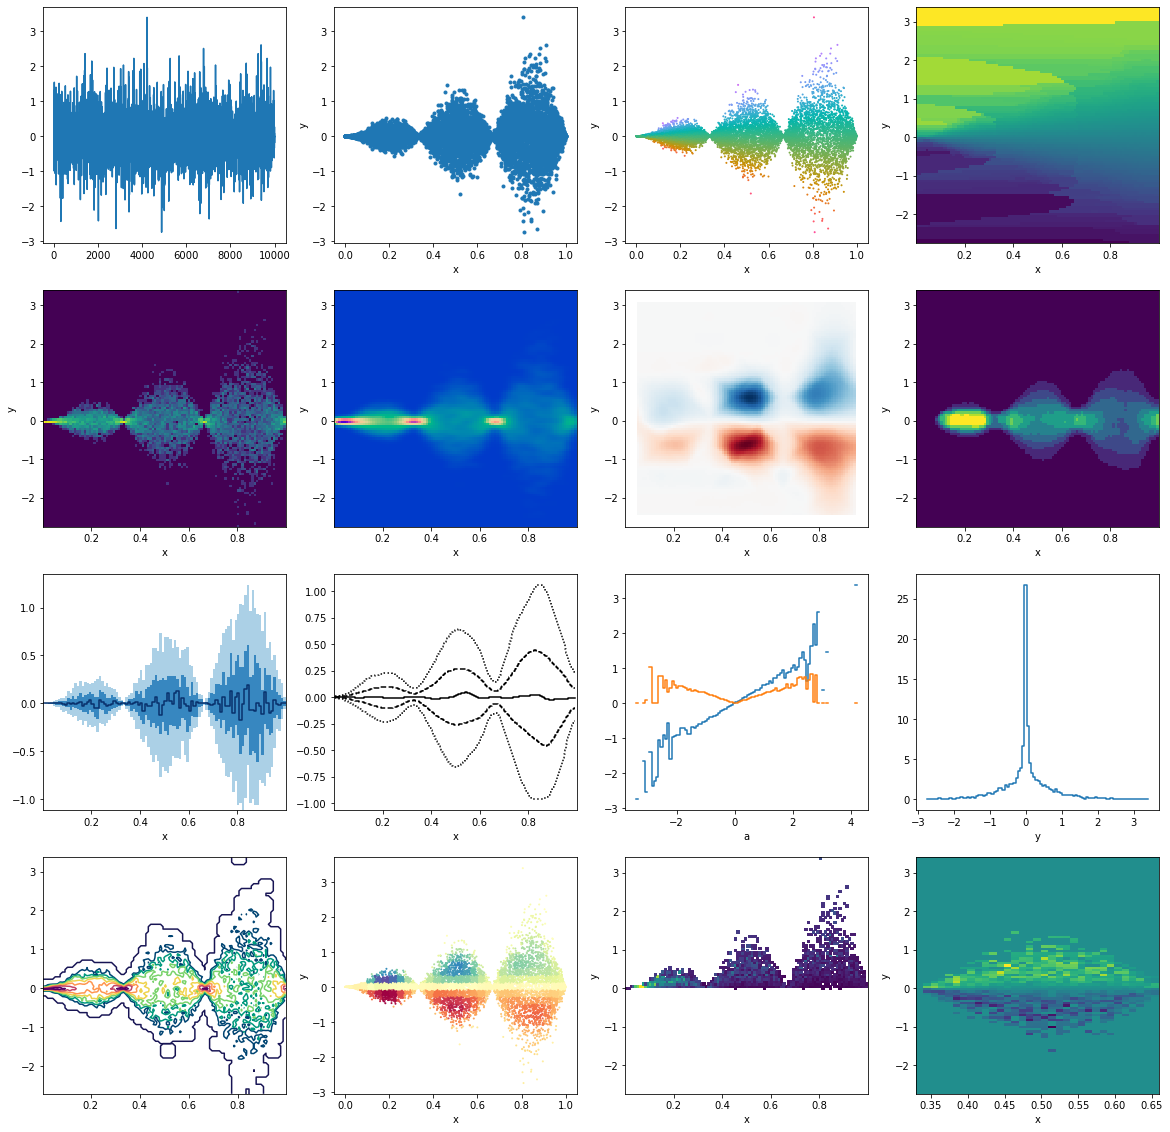
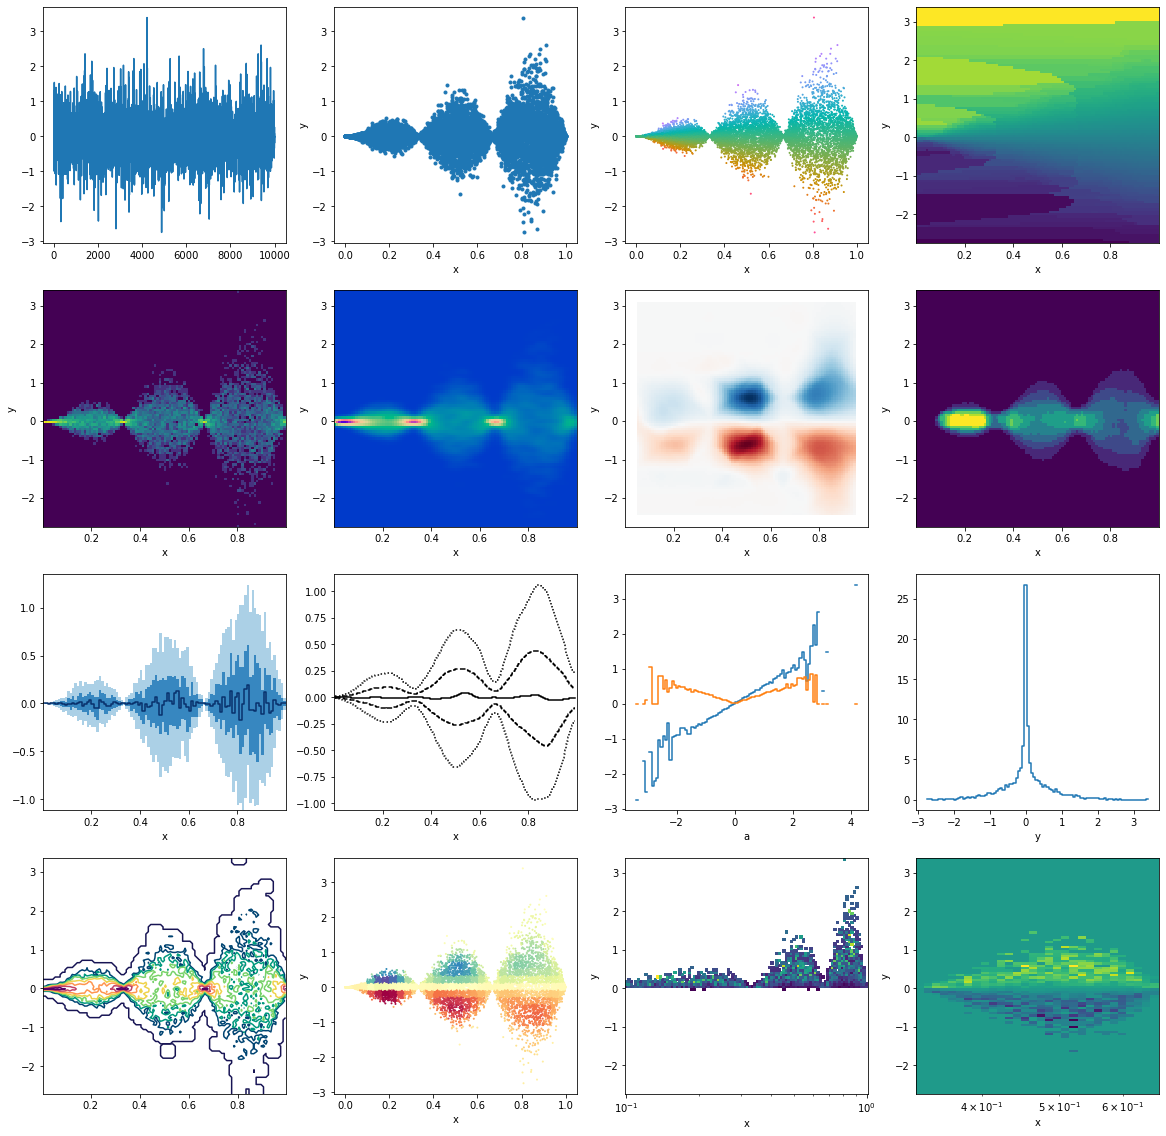
new release

diff --git a/setup.py b/setup.py
@@ -7,7 +7,7 @@ with open(path.join(this_directory, 'README.md'), encoding='utf-8') as f:
 
 setup(
     name='dama',
-    version='0.4.4',
+    version='0.4.5',
     packages=find_packages(),
     license='Apache 2.0',
     author='Philipp Eller',

diff --git a/README.md b/README.md
@@ -387,7 +387,7 @@ p.binwise(a=100).std().y.plot(ax=ax[10])
 p.histogram(x=100, y=100).counts.std(axis='x').plot(ax=ax[11])
 np.log(p.histogram(x=100, y=100).counts + 1).gaussian_filter(0.5).plot_contour(cmap=dm.cm.passion_r, ax=ax[12])
 p.histogram(x=30, y=30).gaussian_filter(1).lookup(p).plot_scatter('x', 'y', 'a', 1, cmap='Spectral', ax=ax[13])
-h = p.histogram(y=100, x=100).a.T
+h = p.histogram(y=100, x=np.logspace(-1,0,100)).a.T
 h[h>0].plot(ax=ax[14])
 h[1/3:2/3].plot(ax=ax[15])
 ```
@@ -395,7 +395,7 @@ h[1/3:2/3].plot(ax=ax[15])
 
 
 
-    <matplotlib.collections.QuadMesh at 0x7efbec64b8e0>
+    <matplotlib.collections.QuadMesh at 0x7efbe96989a0>
 
 
 
